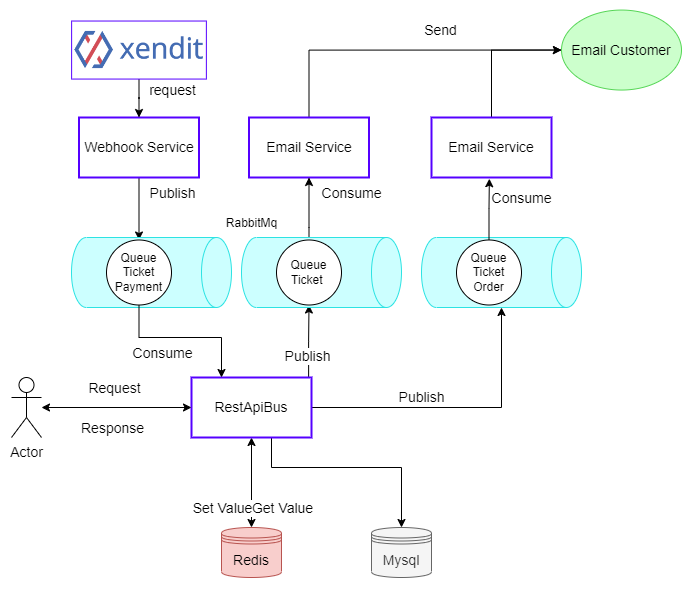
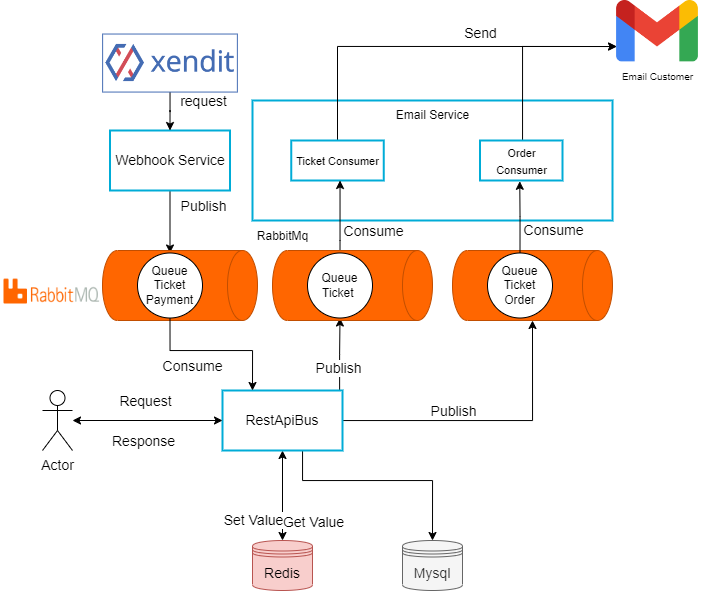
add readme

Changed region(s): [[0.0, 0.0, 1.0, 0.8251], [0.2731, 0.8557, 0.4855, 1.0], [0.5159, 0.8862, 0.6676, 1.0]]

diff --git a/README.md b/README.md
@@ -1,6 +1,30 @@
-# Rest Api Bus Travel
+<h1 align="center"> Rest Api Bus </h1> 
 
-Rest api about managing bus and order ticket bus, this rest api are just used by admin of each agency
+## Table of Contents
+
+- [Introduction](#introduction)
+- [Version History](#version-history)
+- [Entity](#entity)
+- [Features](#features)
+- [Project Architecture](#project-architecture)
+- [Diagram Layer](#diagram-layer)
+- [Middleware Pipeline](#middleware-pipeline)
+- [Message Queue System](#message-queue-system)
+- [Documentation Rest Api](#documentation-rest-api)
+- [Getting Started](#getting-started)
+    - [Prerequisites](#prerequisites)
+    - [A think u need todo](#a-think-u-need-todo)
+
+
+
+<!-- END doctoc generated TOC please keep comment here to allow auto update -->
+
+## Introduction
+
+Welcome to my personal portolio, i'm Maulidito Dwinandana, a passionate software engineer with an interest around backend.  this portfolio is to showcase my project and my experience. through this project i learn a lot of how api work.
+
+This Project Rest api is about managing bus, agency, departure schedule, and order ticket bus, however this rest api are just used by admin of each agency. this also still didn't have a web view, it just only api. despite it's only api, i have implemented some current technology that used by the industry, for example rabbitmq, docker, redis. Also i implemented a little of microservice, like webhook service and email service.
+
 
 ### Version History
 
@@ -17,9 +41,6 @@ Rest api about managing bus and order ticket bus, this rest api are just used by
 - [version 1.5](https://github.com/Maulidito/restapi-bus/tree/e00c8893ce99810a2ca5113367389a168c5c204e) (adding email service with rabbit mq for communicating)
 
 
-## Framework
-
-The Framework i use in this project is [Gin](https://github.com/gin-gonic/gin)
 
 ## Entity
 
@@ -32,14 +53,29 @@ The Framework i use in this project is [Gin](https://github.com/gin-gonic/gin)
 
 you can also see Erd in this [link](https://drawsql.app/teams/maulidito-dwinandana/diagrams/rest-api-bus) using [drawsql](https://drawsql.app/)
 
+## Features
+
+- CRUD of All Entity
+- Authentication using Json Web Token
+- Payment with Virtual Account by Xendit
+- Send Email To Customer through SMTP
+- Auto Schedule with Cron Job
+- Booking Seat From Ticket
+
 
 ## Project Architecture
 
 ![Project Architecture](./image/architecture.drawio_withBG.png)
 
-## Diagram Project
+So in this project have 3 server, that are Webhook Server, Email Server, RestApiBus Server.
 
-![Diagram Project](./image/rest%20api%20bus%20diagram-diagram%20rest%20api.drawio.png)
+- Webhook Server (for get all request from xendit to queue)
+- Email Server (get all data from queue forwarded to email customer)
+- RestApiBus Server (Managing all request, respond, and logic that related on bus management)
+
+## Diagram Layer
+
+![Diagram Layer](./image/rest%20api%20bus%20diagram-diagram%20rest%20api.drawio.png)
 
 From the image We Know
 
@@ -47,9 +83,11 @@ From the image We Know
 - One Service can have many repository
 - One Repository only communicate with one database
 
+so in the layer i implemented a repository pattern, that means i separate the logic layer with data access layer
+
 ## Middleware Pipeline
 
-![Diagram Project](./image/middleware_pipeline.png)
+![Middleware Pipeline](./image/middleware_pipeline.png)
 
 1. The First is the base middleware of the router, every error in controller will catch in middleware error using panic function and recover to catch
 
@@ -57,31 +95,27 @@ From the image We Know
 
 3. The Third is the Redis Middleware, the redis middleware just implented in specific router for example in get one agency, get one bus, get one schedule, etc. The redis middleware will always get the data first from the redis, if the data didn't exist then move to the controller but if exist then send to user.
 
-## Workflow Project
 
-![Workflow Project](./image/rest%20api%20bus%20diagram-WorkFlow.drawio.png)
-
-This image show workflow from client send request and get response in REST API
-
-## Email Service
+## Message Queue System 
 
 ![Message Queue System](./image/deep_dive_message_queue.png)
 
 
-The goal of Email service is send a ticket bus to email user. If we see the image i use message queue for connecting to email service and rest api, and smtp gmail to handle delivery email. The technology message queue is using [RabbitMq](https://rabbitmq.com/)
+The goal of message queue is to send a data to consumer. If we see the image i use message queue for connecting to email server and publisher, and smtp gmail to handle delivery email. The technology message queue is using [RabbitMq](https://rabbitmq.com/)
 
 The flow email service work:
 
-1. Rest api declare queue and bind the exchange, then publish detail ticket to MQ
-2. Email Service declare queue if didnt exist, then consume queue
-3. Email Service Render the data of detail ticket to html
-4. Email Service send to email user with smtp gmail
+1. Declare the queue and the exchange
+2. Email Service bind queue , then consume queue
+3. Rest api bind the exchange, then publish data to MQ
+4. Email Service Render the data of detail ticket to html
+5. Email Service send to email user with smtp gmail
 
 - example of ticket email
 
 ![Example Ticket Email](./image/email_ticket.png)
 
-- example of email ticket payment
+- example of email ticket order
 
 ![Example Ticket Email](./image/email_payment_order.png)
 
